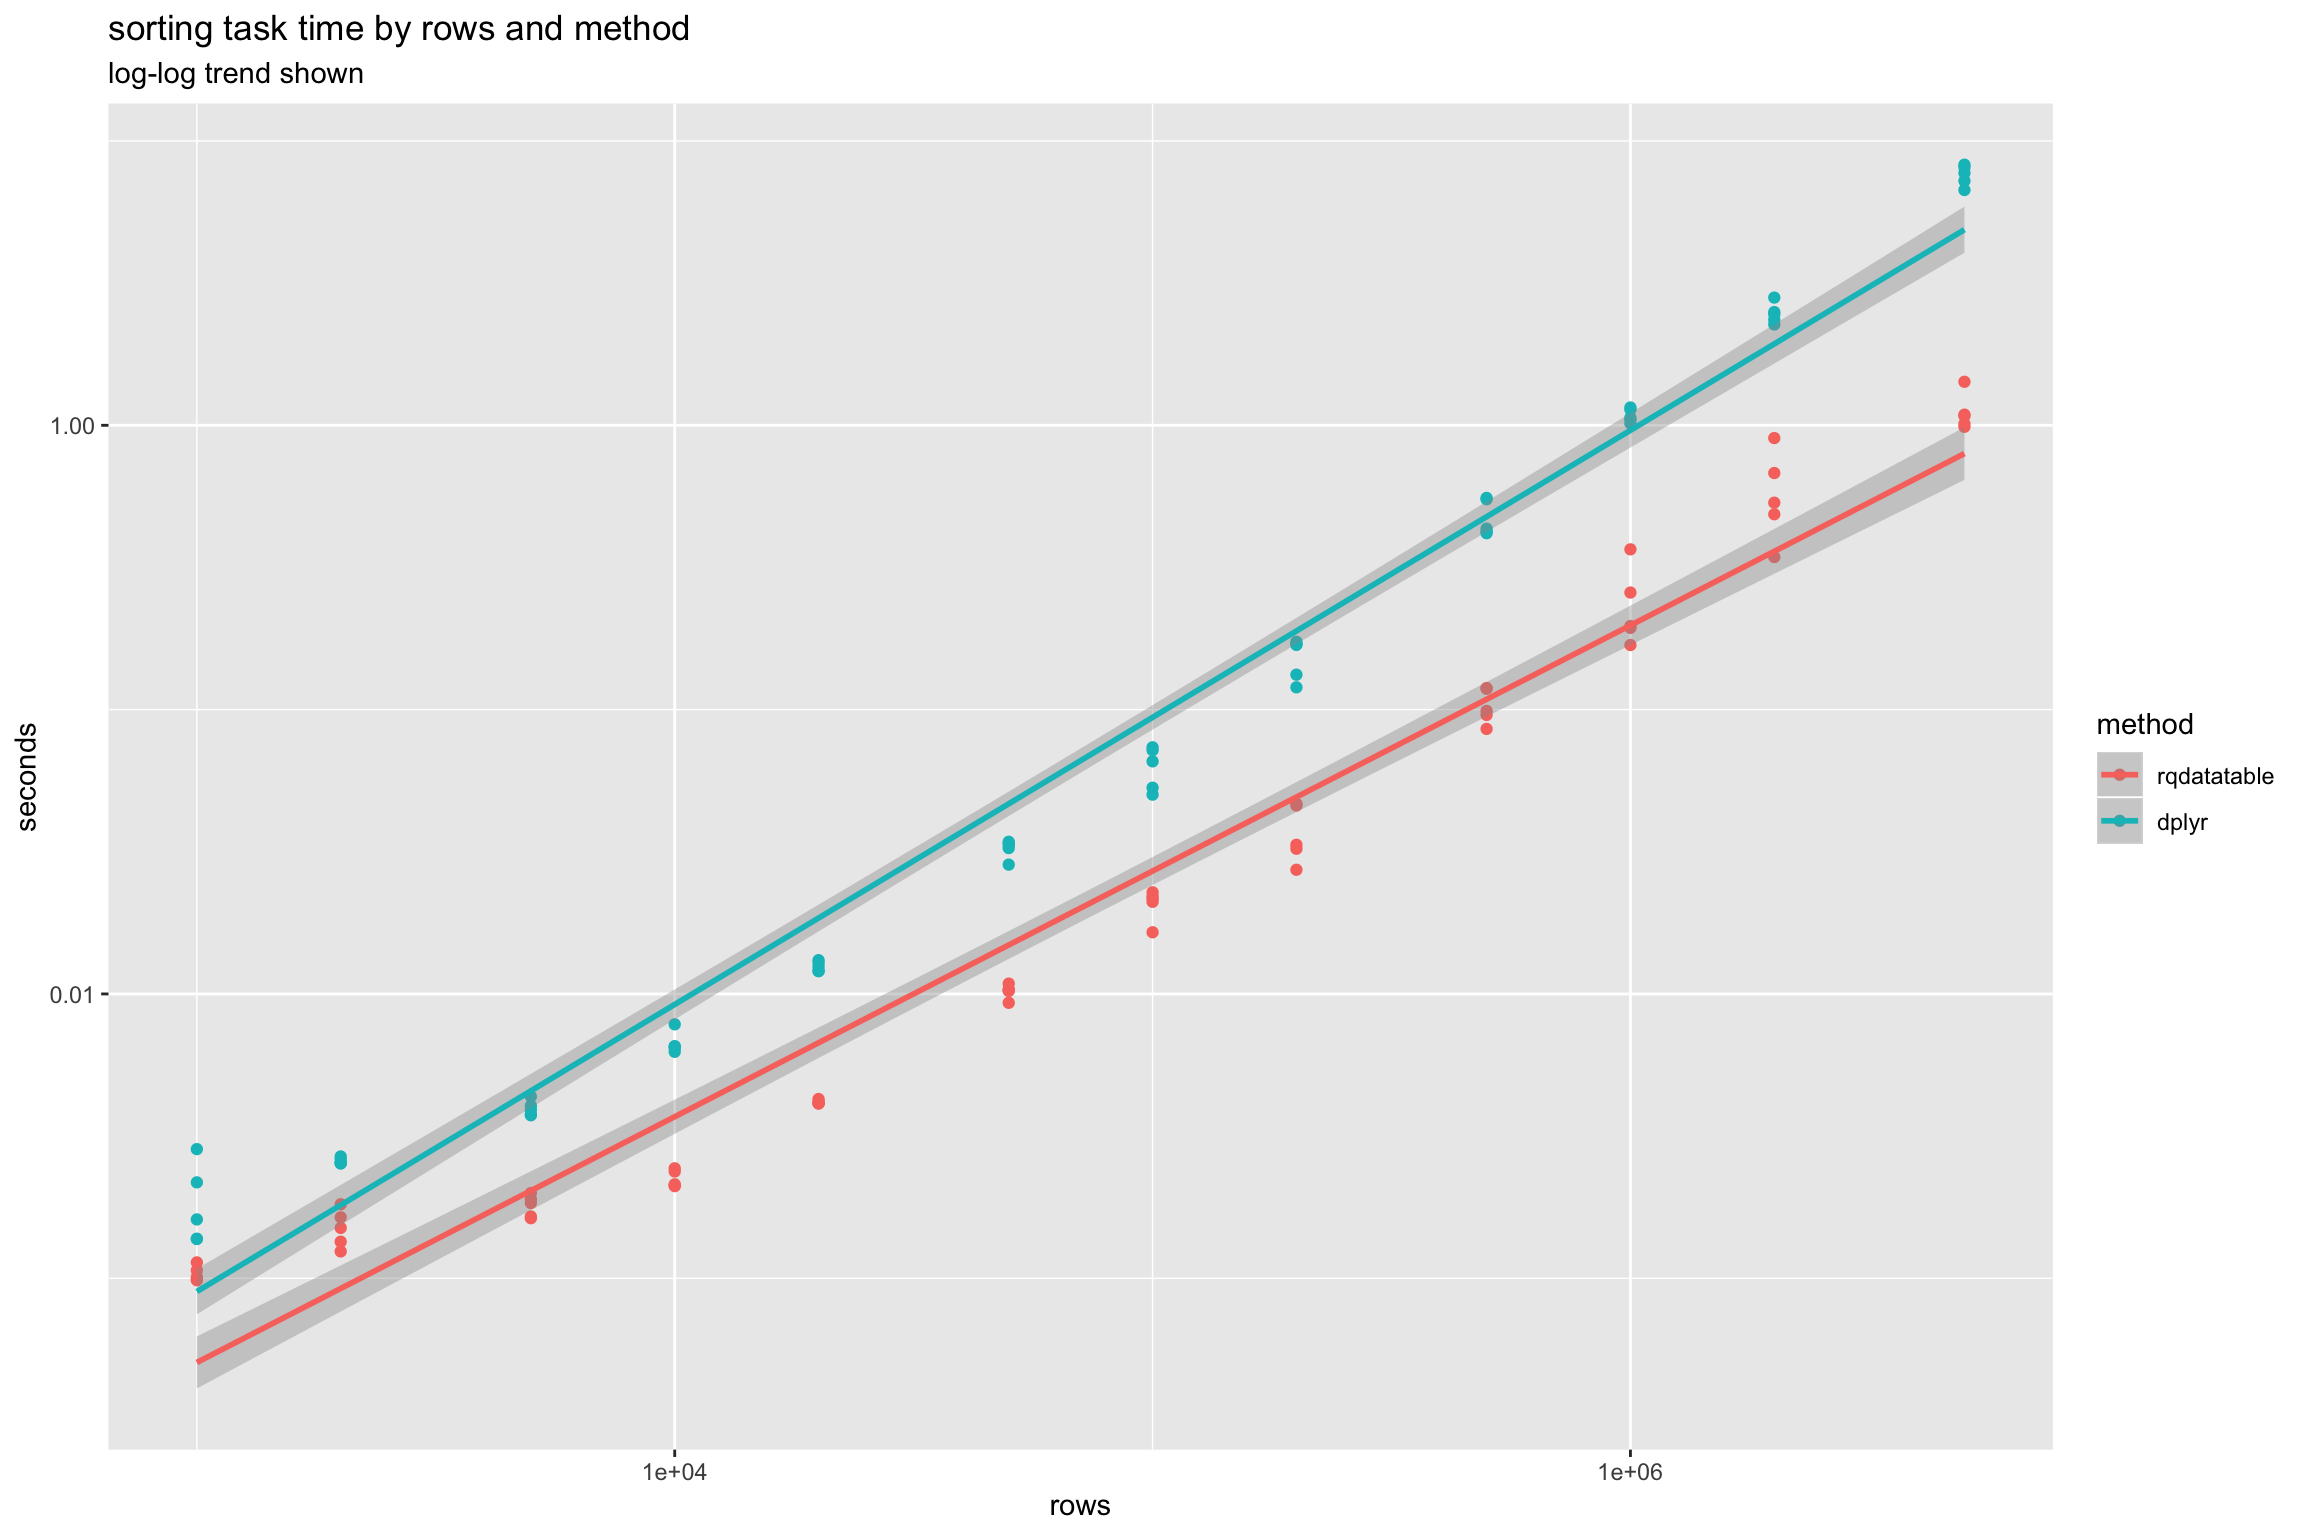
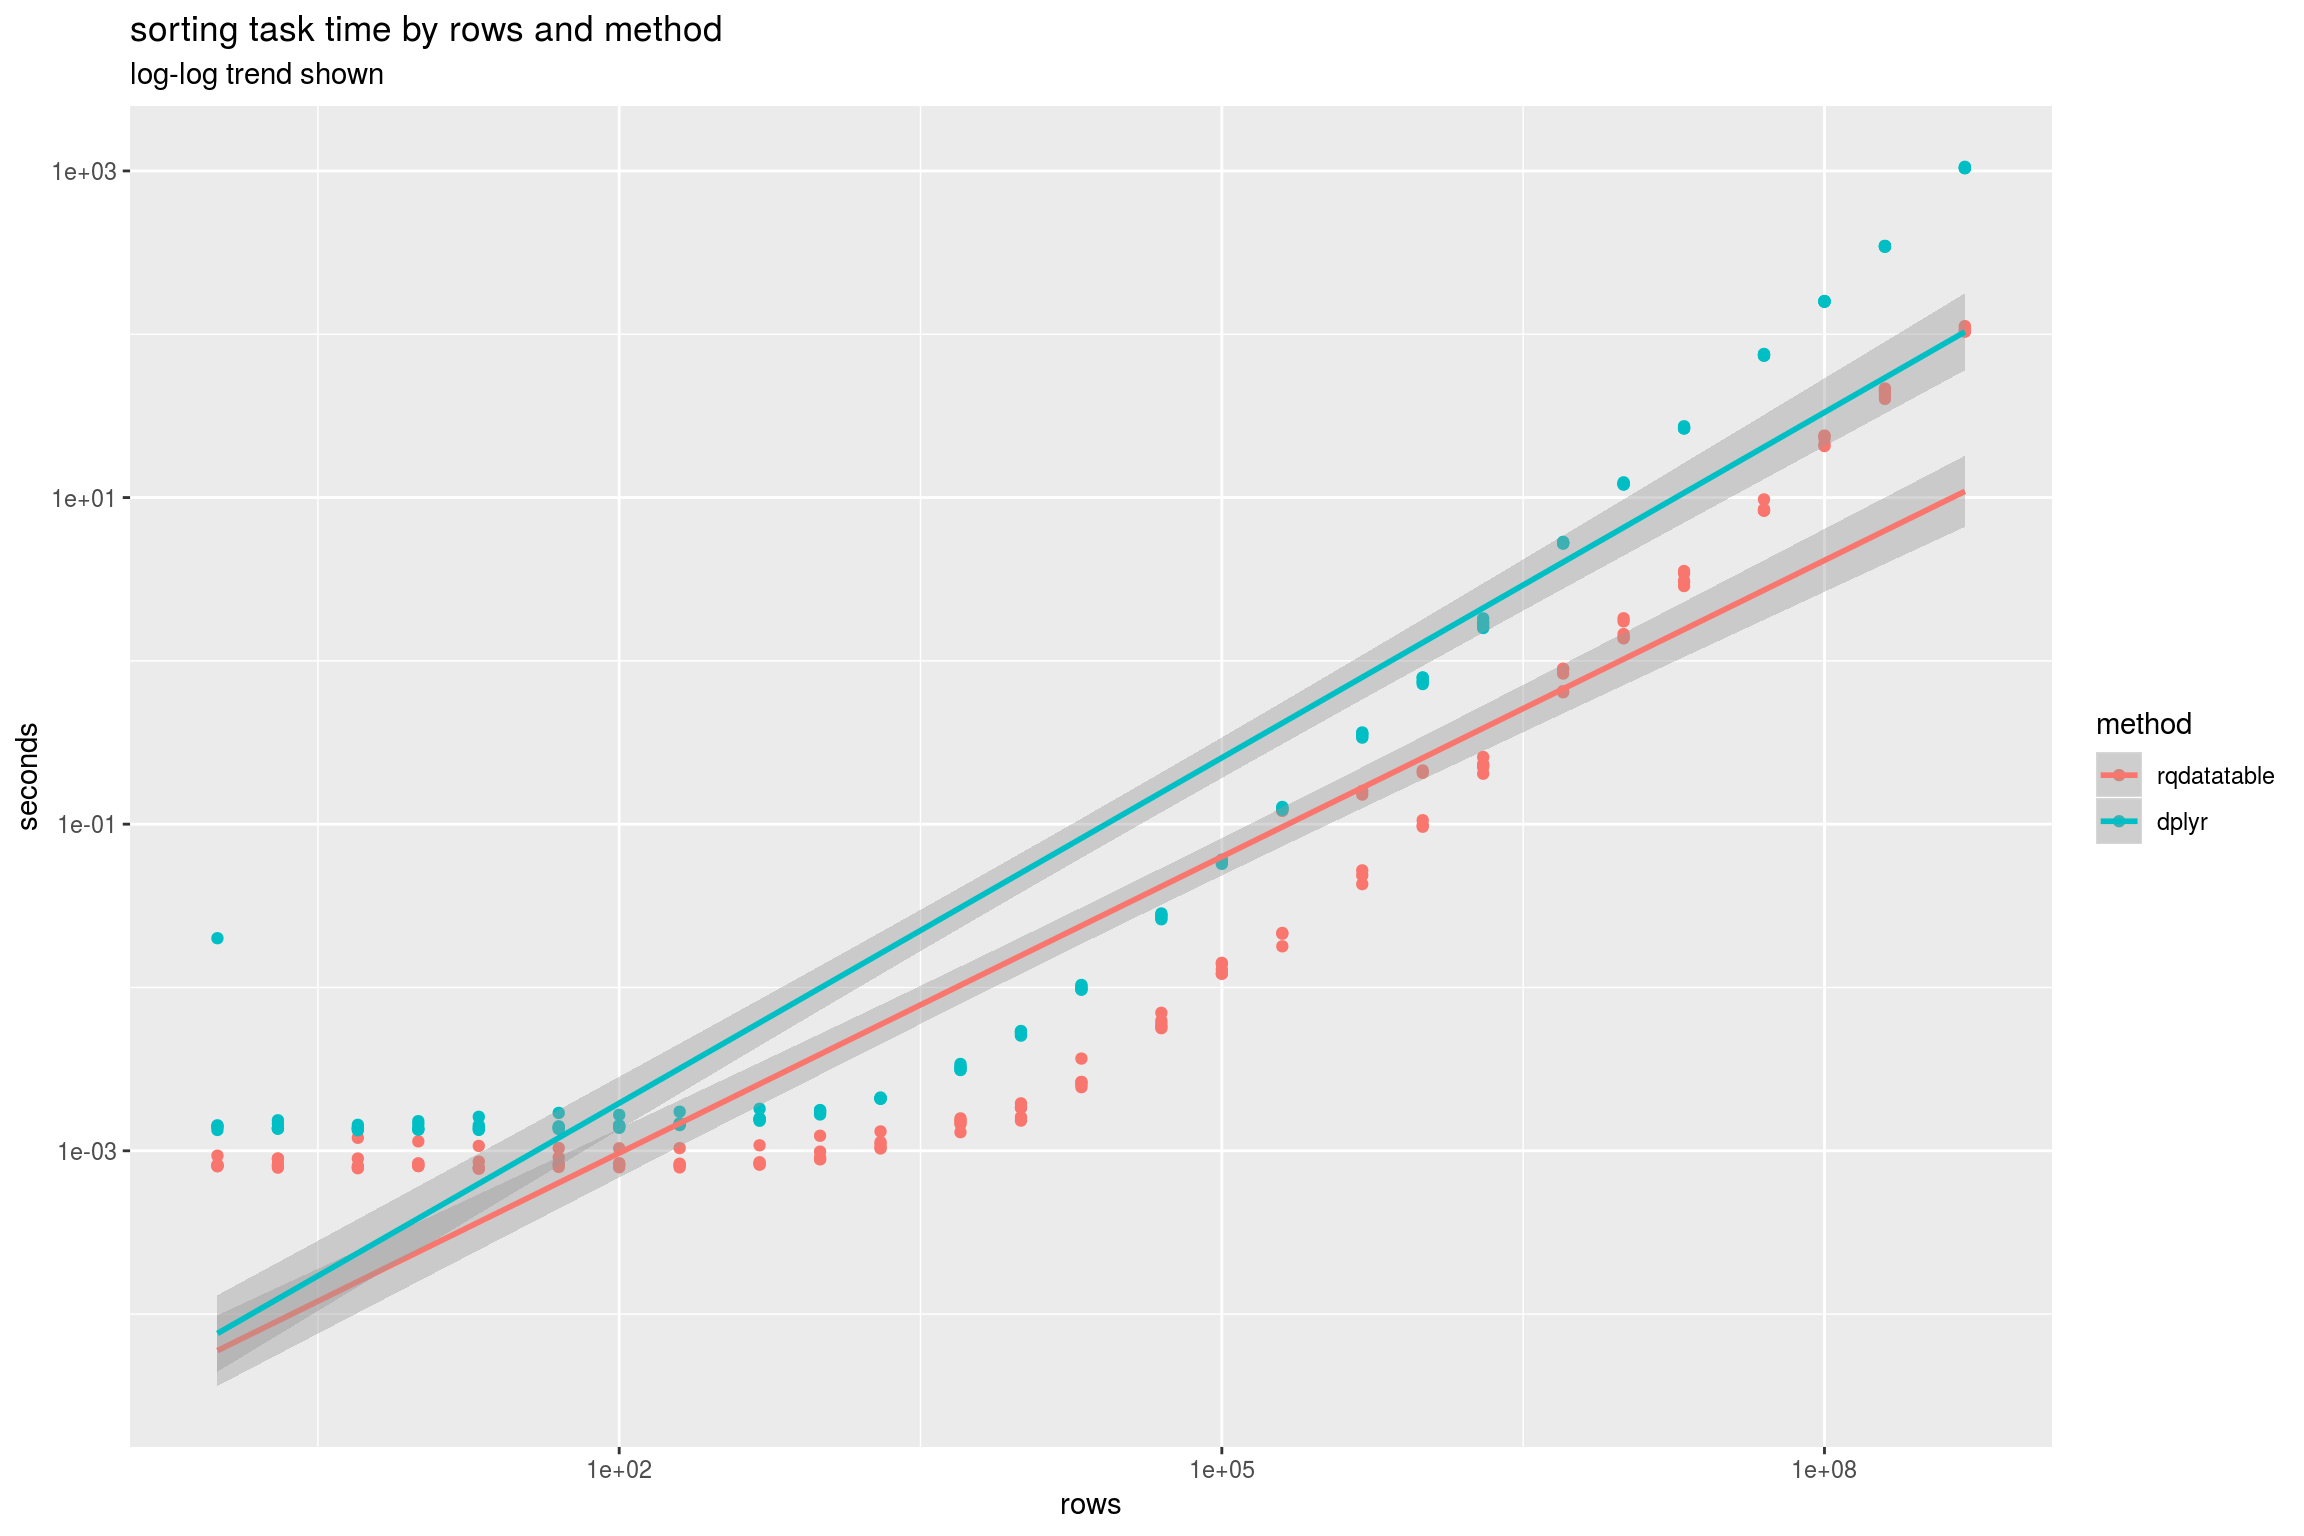
larger run

diff --git a/extras/Sorting.md b/extras/Sorting.md
@@ -1,6 +1,8 @@
 Sorting
 ================
 
+Amazon EC2 `r4.8xlarge`.
+
 ``` r
 library("rqdatatable")
 ```
@@ -12,7 +14,47 @@ library("microbenchmark")
 library("ggplot2")
 library("WVPlots")
 library("cdata")
+library("dplyr")
+```
 
+    ## 
+    ## Attaching package: 'dplyr'
+
+    ## The following objects are masked from 'package:stats':
+    ## 
+    ##     filter, lag
+
+    ## The following objects are masked from 'package:base':
+    ## 
+    ##     intersect, setdiff, setequal, union
+
+``` r
+packageVersion("dplyr")
+```
+
+    ## [1] '0.7.6'
+
+``` r
+R.version
+```
+
+    ##                _                           
+    ## platform       x86_64-pc-linux-gnu         
+    ## arch           x86_64                      
+    ## os             linux-gnu                   
+    ## system         x86_64, linux-gnu           
+    ## status                                     
+    ## major          3                           
+    ## minor          4.4                         
+    ## year           2018                        
+    ## month          03                          
+    ## day            15                          
+    ## svn rev        74408                       
+    ## language       R                           
+    ## version.string R version 3.4.4 (2018-03-15)
+    ## nickname       Someone to Lean On
+
+``` r
 set.seed(32523)
 
 mk_data <- function(nrow) {
@@ -33,7 +75,7 @@ my_check <- function(values) {
   all(sapply(values[-1], function(x) identical(values[[1]], x)))
 }
 
-szs <- expand.grid(a = c(1,2,5), b = 10^{3:6})
+szs <- expand.grid(a = c(1,2,5), b = 10^{0:8})
 szs <- sort(unique(szs$a * szs$b))
 runs <- lapply(
   szs,
@@ -101,5 +143,7 @@ ggplot(data = means, aes(x = rows, y = ratio_by_log_rows)) +
 ```
 
     ## `geom_smooth()` using method = 'loess' and formula 'y ~ x'
+
+    ## Warning: Removed 1 rows containing non-finite values (stat_smooth).
 
 <img src="Sorting_files/figure-markdown_github/present-3.png" width="1152" />
